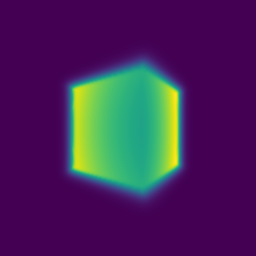
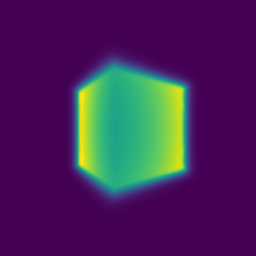
finish except extra

Changed region(s): [[0.25, 0.2188, 0.75, 0.8125]]

diff --git a/implicit.py b/implicit.py
@@ -298,8 +298,43 @@ class NeuralRadianceField(torch.nn.Module):
 
         embedding_dim_xyz = self.harmonic_embedding_xyz.output_dim
         embedding_dim_dir = self.harmonic_embedding_dir.output_dim
+        
+        self.net = MLPWithInputSkips(cfg.n_layers_xyz, embedding_dim_xyz, 0, embedding_dim_xyz, cfg.n_hidden_neurons_xyz, cfg.append_xyz)
+        self.linear_density = torch.nn.Sequential(torch.nn.Linear(cfg.n_hidden_neurons_xyz, 1),
+                                                   torch.nn.ReLU())
+        
+        self.linear_fuse = torch.nn.Sequential(LinearWithRepeat(cfg.n_hidden_neurons_xyz+embedding_dim_dir, cfg.n_hidden_neurons_dir),
+                                                torch.nn.ReLU())
+        self.linear_wo_fuse = torch.nn.Sequential(torch.nn.Linear(cfg.n_hidden_neurons_xyz, cfg.n_hidden_neurons_dir),
+                                                   torch.nn.ReLU())
+        self.linear_rgb = torch.nn.Sequential(torch.nn.Linear(cfg.n_hidden_neurons_dir, 3),
+                                                   torch.nn.Sigmoid())
 
-        pass
+    def forward(self, raybundle, views=True):
+        points = raybundle.sample_points
+        directions = raybundle.directions
+
+        xyz_embed = self.harmonic_embedding_xyz(points)
+        x = self.net(xyz_embed, xyz_embed)
+
+        density = self.linear_density(x)
+        
+        if views:
+            directions = self.harmonic_embedding_dir(directions)
+            x = self.linear_fuse((x, directions))
+        else:
+            x = self.linear_wo_fuse(x)
+        
+        rgb = self.linear_rgb(x)
+
+        out = {
+            'density': density,
+            'feature': rgb
+        }
+            
+        return out
+        
+        # self.linear1=. 
 
 
 class NeuralSurface(torch.nn.Module):
@@ -311,6 +346,14 @@ class NeuralSurface(torch.nn.Module):
         # TODO (Q6): Implement Neural Surface MLP to output per-point SDF
         # TODO (Q7): Implement Neural Surface MLP to output per-point color
 
+        self.harmonic_embedding_xyz = HarmonicEmbedding(3, cfg.n_harmonic_functions_xyz)
+        embedding_dim_xyz = self.harmonic_embedding_xyz.output_dim
+        self.net = MLPWithInputSkips(cfg.n_layers_distance, embedding_dim_xyz, 0, embedding_dim_xyz, cfg.n_hidden_neurons_distance, cfg.append_distance)
+        self.linear_distance = torch.nn.Linear(cfg.n_hidden_neurons_distance, 1)
+        self.net2 = MLPWithInputSkips(cfg.n_layers_color,  cfg.n_hidden_neurons_distance, 0,  cfg.n_hidden_neurons_distance, cfg.n_hidden_neurons_color, cfg.append_color)
+        self.linear_rgb = torch.nn.Sequential(torch.nn.Linear(cfg.n_hidden_neurons_color, 3),
+                                                   torch.nn.Sigmoid())
+
     def get_distance(
         self,
         points
@@ -321,7 +364,9 @@ class NeuralSurface(torch.nn.Module):
             distance: N X 1 Tensor, where N is number of input points
         '''
         points = points.view(-1, 3)
-        pass
+        xyz_embed = self.harmonic_embedding_xyz(points)
+        x = self.net(xyz_embed, xyz_embed)
+        return self.linear_distance(x)
     
     def get_color(
         self,
@@ -333,7 +378,10 @@ class NeuralSurface(torch.nn.Module):
             distance: N X 3 Tensor, where N is number of input points
         '''
         points = points.view(-1, 3)
-        pass
+        xyz_embed = self.harmonic_embedding_xyz(points)
+        x = self.net(xyz_embed, xyz_embed)
+        x = self.net2(x, x)
+        return self.linear_rgb(x)
     
     def get_distance_color(
         self,
@@ -346,6 +394,12 @@ class NeuralSurface(torch.nn.Module):
         You may just implement this by independent calls to get_distance, get_color
             but, depending on your MLP implementation, it maybe more efficient to share some computation
         '''
+        points = points.view(-1, 3)
+        xyz_embed = self.harmonic_embedding_xyz(points)
+        x = self.net(xyz_embed, xyz_embed)
+        distance = self.linear_distance(x)
+        x = self.net2(x, x)
+        return distance, self.linear_rgb(x)
         
     def forward(self, points):
         return self.get_distance(points)
@@ -379,3 +433,18 @@ implicit_dict = {
     'sdf_surface': SDFSurface,
     'neural_surface': NeuralSurface,
 }
+
+import hydra, os
+
+@hydra.main(config_path='./configs', config_name='sphere')
+def main(cfg):
+    os.chdir(hydra.utils.get_original_cwd())
+    layer = NeuralRadianceField(cfg['implicit_function'])
+    x = torch.randn(1000, 128, 3)
+    density, color = layer(x)
+    print(density.shape)
+    print(color.shape)
+
+if __name__ == "__main__":
+    main()
+    

diff --git a/renderer.py b/renderer.py
@@ -53,6 +53,7 @@ class VolumeRenderer(torch.nn.Module):
         sampler,
         implicit_fn,
         ray_bundle,
+        implicit_fn_fine,
     ):
         B = ray_bundle.shape[0]
 
@@ -98,6 +99,38 @@ class VolumeRenderer(torch.nn.Module):
                 'feature': feature,
                 'depth': depth,
             }
+
+            ################ hierarchical sampling ##############################
+            if implicit_fn_fine is not None:
+                cur_ray_bundle = sampler.hierarchical_sample(cur_ray_bundle, weights.squeeze(-1), 128)
+                n_pts = cur_ray_bundle.sample_shape[1]
+
+                # Call implicit function with sample points
+                implicit_output = implicit_fn_fine(cur_ray_bundle)
+                density = implicit_output['density']
+                feature = implicit_output['feature']
+
+                # Compute length of each ray segment
+                depth_values = cur_ray_bundle.sample_lengths[..., 0]
+                deltas = torch.cat(
+                    (
+                        depth_values[..., 1:] - depth_values[..., :-1],
+                        1e10 * torch.ones_like(depth_values[..., :1]),
+                    ),
+                    dim=-1,
+                )[..., None]
+
+                # Compute aggregation weights
+                weights = self._compute_weights(
+                    deltas.view(-1, n_pts, 1),
+                    density.view(-1, n_pts, 1)
+                ) 
+
+                # TODO (1.5): Render (color) features using weights
+                feature = self._aggregate(weights, feature)
+                cur_out['feature_fine'] = feature
+
+            ################# End ###############################################
 
             chunk_outputs.append(cur_out)
 
@@ -147,7 +180,17 @@ class SphereTracingRenderer(torch.nn.Module):
         #   in order to compute intersection points of rays with the implicit surface
         # 2) Maintain a mask with the same batch dimension as the ray origins,
         #   indicating which points hit the surface, and which do not
-        pass
+        N = origins.shape[0]
+
+        points = origins
+        mask = torch.zeros((N, 1), dtype=torch.bool, device=origins.device)
+
+        for _ in range(self.max_iters):
+            distance = implicit_fn(points)
+            mask = mask | (distance < 1e-3)
+            points = points + (directions * distance)
+
+        return points, mask
 
     def forward(
         self,
@@ -197,7 +240,14 @@ class SphereTracingRenderer(torch.nn.Module):
 
 def sdf_to_density(signed_distance, alpha, beta):
     # TODO (Q7): Convert signed distance to density with alpha, beta parameters
-    pass
+
+    density = torch.zeros_like(signed_distance)
+    mask = signed_distance >= 0
+    density[mask] = torch.exp(-1 * signed_distance[mask] / beta) / 2
+    density[~mask] = 1 - torch.exp(signed_distance[~mask] / beta) / 2
+    density *= alpha
+
+    return density
 
 class VolumeSDFRenderer(VolumeRenderer):
     def __init__(
@@ -234,7 +284,7 @@ class VolumeSDFRenderer(VolumeRenderer):
 
             # Call implicit function with sample points
             distance, color = implicit_fn.get_distance_color(cur_ray_bundle.sample_points)
-            density = None # TODO (Q7): convert SDF to density
+            density = sdf_to_density(distance, self.alpha, self.beta) # TODO (Q7): convert SDF to density
 
             # Compute length of each ray segment
             depth_values = cur_ray_bundle.sample_lengths[..., 0]

diff --git a/volume_rendering_main.py b/volume_rendering_main.py
@@ -53,6 +53,12 @@ class Model(torch.nn.Module):
         self.implicit_fn = implicit_dict[cfg.implicit_function.type](
             cfg.implicit_function
         )
+        
+        self.implicit_fn_fine = None
+        if getattr(cfg.implicit_function, "use_hierarchy", False):
+            self.implicit_fn_fine = implicit_dict[cfg.implicit_function.type](
+                cfg.implicit_function
+            )
 
         # Point sampling (raymarching) scheme
         self.sampler = sampler_dict[cfg.sampler.type](
@@ -75,7 +81,8 @@ class Model(torch.nn.Module):
         return self.renderer(
             self.sampler,
             self.implicit_fn,
-            ray_bundle
+            ray_bundle,
+            self.implicit_fn_fine
         )
 
 
@@ -115,6 +122,7 @@ def render_images(
             render_points(f'{file_prefix}sample_points.png', vis_ray_bundle.sample_points.reshape(1, -1, 3))
 
         # TODO (Q1.5): Implement rendering in renderer.py
+    
         out = model(ray_bundle)
 
         # Return rendered features (colors)
@@ -209,7 +217,7 @@ def train(
             out = model(ray_bundle)
 
             # TODO (Q2.2): Calculate loss
-            loss = None
+            loss = torch.nn.MSELoss()(out['feature'], rgb_gt)
 
             # Backprop
             optimizer.zero_grad()
@@ -282,7 +290,7 @@ def create_model(cfg):
         )
 
     lr_scheduler = torch.optim.lr_scheduler.LambdaLR(
-        optimizer, lr_lambda, last_epoch=start_epoch - 1, verbose=False
+        optimizer, lr_lambda, last_epoch=start_epoch - 1
     )
 
     return model, optimizer, lr_scheduler, start_epoch, checkpoint_path
@@ -329,7 +337,9 @@ def train_nerf(
             out = model(ray_bundle)
 
             # TODO (Q3.1): Calculate loss
-            loss = None
+            loss = torch.nn.MSELoss()(out['feature'], rgb_gt)
+            if 'feature_fine' in out:
+                loss += torch.nn.MSELoss()(out['feature_fine'], rgb_gt)
 
             # Take the training step.
             optimizer.zero_grad()
@@ -368,7 +378,8 @@ def train_nerf(
                     model, create_surround_cameras(4.0, n_poses=20, up=(0.0, 0.0, 1.0), focal_length=2.0),
                     cfg.data.image_size, file_prefix='nerf'
                 )
-                imageio.mimsave('images/part_3.gif', [np.uint8(im * 255) for im in test_images], loop=0)
+                # imageio.mimsave('images/part_3.gif', [np.uint8(im * 255) for im in test_images], loop=0)
+                imageio.mimsave('images/materials_highres.gif', [np.uint8(im * 255) for im in test_images], loop=0)
 
 
 @hydra.main(config_path='./configs', config_name='sphere')

diff --git a/sampler.py b/sampler.py
@@ -36,6 +36,56 @@ class StratifiedRaysampler(torch.nn.Module):
             sample_lengths=z_vals * torch.ones_like(sample_points[..., :1]),
         )
 
+    def hierarchical_sample(self, ray_bundle, weights, N_fine, det=False):
+        z_vals = ray_bundle.sample_lengths
+        B, N = weights.shape
+
+        # Compute PDF (add small epsilon for numerical stability)
+        weights = weights + 1e-5
+        pdf = weights / torch.sum(weights, dim=-1, keepdim=True)  # [B, N]
+
+        # Compute CDF
+        cdf = torch.cumsum(pdf, dim=-1)  # [B, N]
+        cdf = torch.cat([torch.zeros(B, 1, device=weights.device), cdf], dim=-1)  # [B, N+1]
+
+        # Construct bins using midpoints of z_vals
+        mid = 0.5 * (z_vals[..., 1:] + z_vals[..., :-1])  # [B, N-1]
+        bins = torch.cat([z_vals[..., :1], mid, z_vals[..., -1:]], dim=-1)  # [B, N+1]
+
+        # Sample uniform numbers
+        if det:
+            u = torch.linspace(0., 1., steps=N_fine, device=weights.device)
+            u = u.expand(B, N_fine)
+        else:
+            u = torch.rand(B, N_fine, device=weights.device)
+
+        # Invert CDF
+        inds = torch.searchsorted(cdf, u, right=True)  # [B, N_fine]
+        below = torch.clamp(inds-1, min=0)
+        above = torch.clamp(inds, max=N)
+        inds_g = torch.stack([below, above], dim=-1)  # [B, N_fine, 2]
+
+        # Gather cdf and bins
+        cdf_g = torch.gather(cdf.unsqueeze(1).expand(B, N_fine, N+1), 2, inds_g)  # [B, N_fine, 2]
+        bins_g = torch.gather(bins.unsqueeze(1).expand(B, N_fine, N+1), 2, inds_g)  # [B, N_fine, 2]
+
+        denom = cdf_g[...,1] - cdf_g[...,0]
+        denom = torch.where(denom < 1e-5, torch.ones_like(denom), denom)
+        t = (u - cdf_g[...,0]) / denom
+
+        z_samples = bins_g[...,0] + t * (bins_g[...,1] - bins_g[...,0])  # [B, N_fine]
+
+        z_vals = torch.cat([z_vals, z_samples], dim=-1)  # [B, N + N_fine]
+        z_vals, _ = torch.sort(z_vals, dim=-1)          # optional: sort to keep increasing order along ray
+
+        sample_points = ray_bundle.origins.unsqueeze(1).expand(-1, self.n_pts_per_ray + N_fine, 3) \
+            + ray_bundle.directions.unsqueeze(1).expand(-1, self.n_pts_per_ray + N_fine, 3) * z_vals.unsqueeze(-1)
+
+        # Return
+        return ray_bundle._replace(
+            sample_points=sample_points,
+            sample_lengths=z_vals * torch.ones_like(sample_points[..., :1]),
+        )
 
 sampler_dict = {
     'stratified': StratifiedRaysampler

diff --git a/surface_rendering_main.py b/surface_rendering_main.py
@@ -197,7 +197,7 @@ def create_model(cfg):
         )
 
     lr_scheduler = torch.optim.lr_scheduler.LambdaLR(
-        optimizer, lr_lambda, last_epoch=start_epoch - 1, verbose=False
+        optimizer, lr_lambda, last_epoch=start_epoch - 1
     )
 
     return model, optimizer, lr_scheduler, start_epoch, checkpoint_path
@@ -233,7 +233,7 @@ def train_points(
 
             # Get distances and enforce point cloud loss
             distances, gradients = model.implicit_fn.get_distance_and_gradient(points)
-            loss = None # TODO (Q6): Point cloud SDF loss on distances
+            loss = (distances ** 2).mean() # TODO (Q6): Point cloud SDF loss on distances
             point_loss = loss
 
             # Sample random points in bounding box

diff --git a/ray_utils.py b/ray_utils.py
@@ -102,7 +102,7 @@ def get_pixels_from_image(image_size, camera):
     xy_grid = torch.stack(
         tuple( reversed( torch.meshgrid(y, x) ) ),
         dim=-1,
-    ).view(W * H, 2)
+    ).view(W * H, 2).to(device=camera.device)
 
     return -xy_grid
 
@@ -112,10 +112,11 @@ def get_random_pixels_from_image(n_pixels, image_size, camera):
     xy_grid = get_pixels_from_image(image_size, camera)
     
     # TODO (Q2.1): Random subsampling of pixel coordinaters
-    pass
+    idx = torch.randperm(xy_grid.shape[0])[:n_pixels].to(device=xy_grid.device)
 
+    return xy_grid.reshape(-1, 2)[idx]
     # Return
-    return xy_grid_sub.reshape(-1, 2)[:n_pixels]
+    # return xy_grid_sub.reshape(-1, 2)[:n_pixels]
 
 
 # Get rays from pixel values

diff --git a/losses.py b/losses.py
@@ -3,7 +3,8 @@ import torch.nn.functional as F
 
 def eikonal_loss(gradients):
     # TODO (Q6): Implement eikonal loss
-    pass
+    
+    return ((torch.norm(gradients, dim=1) - 1) ** 2).mean()
 
 def sphere_loss(signed_distance, points, radius=1.0):
     return torch.square(signed_distance[..., 0] - (torch.norm(points, dim=-1) - radius)).mean()
